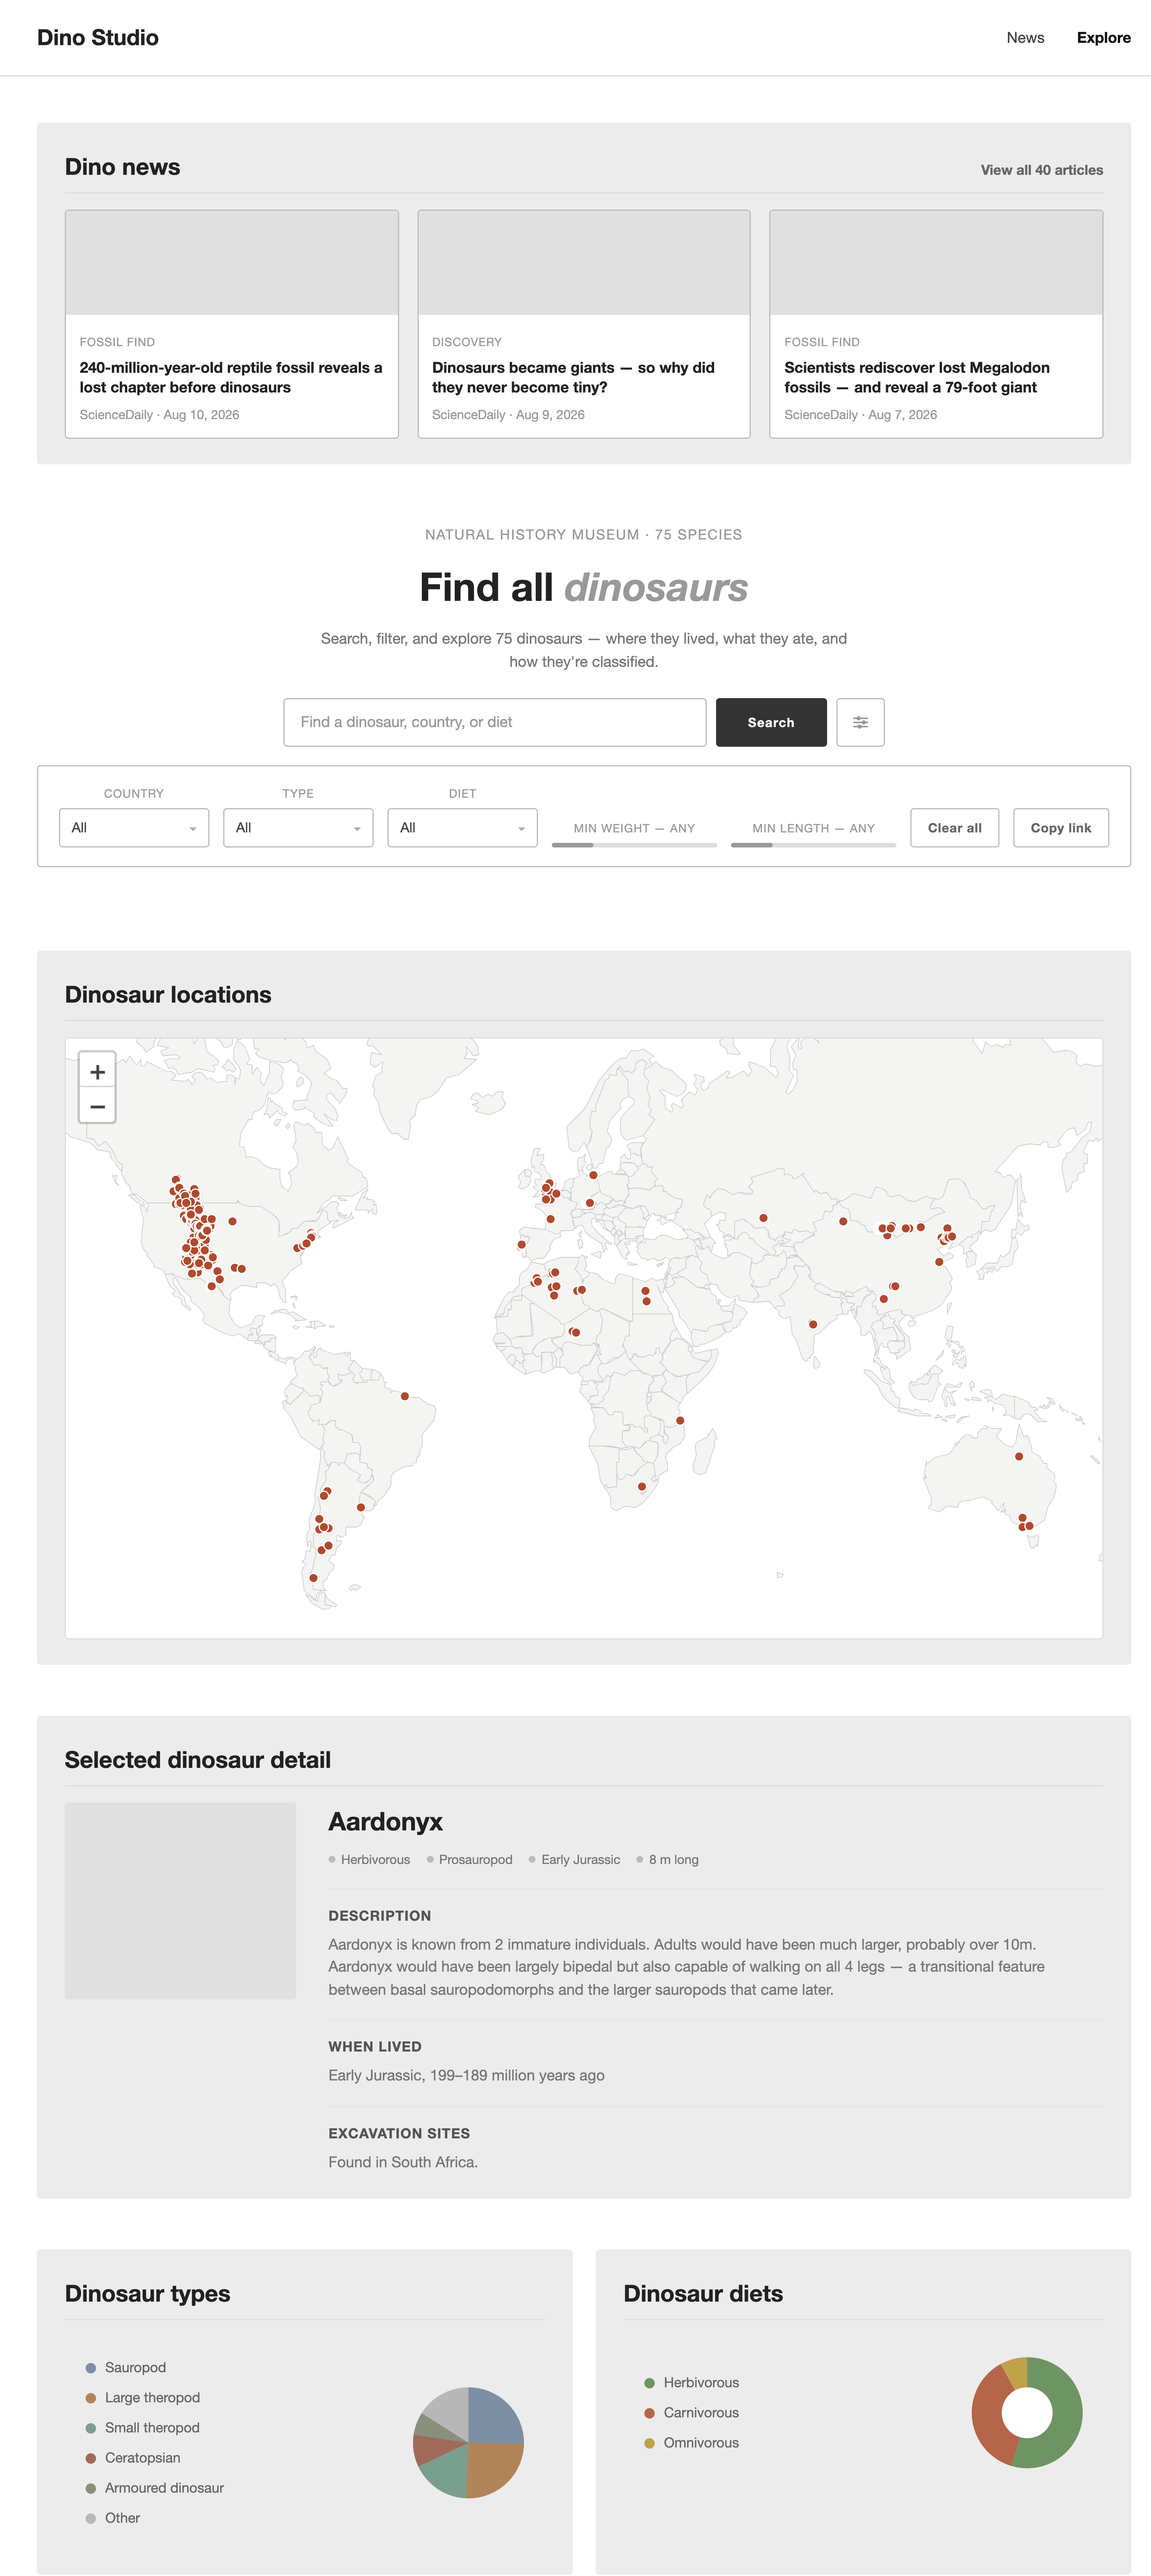
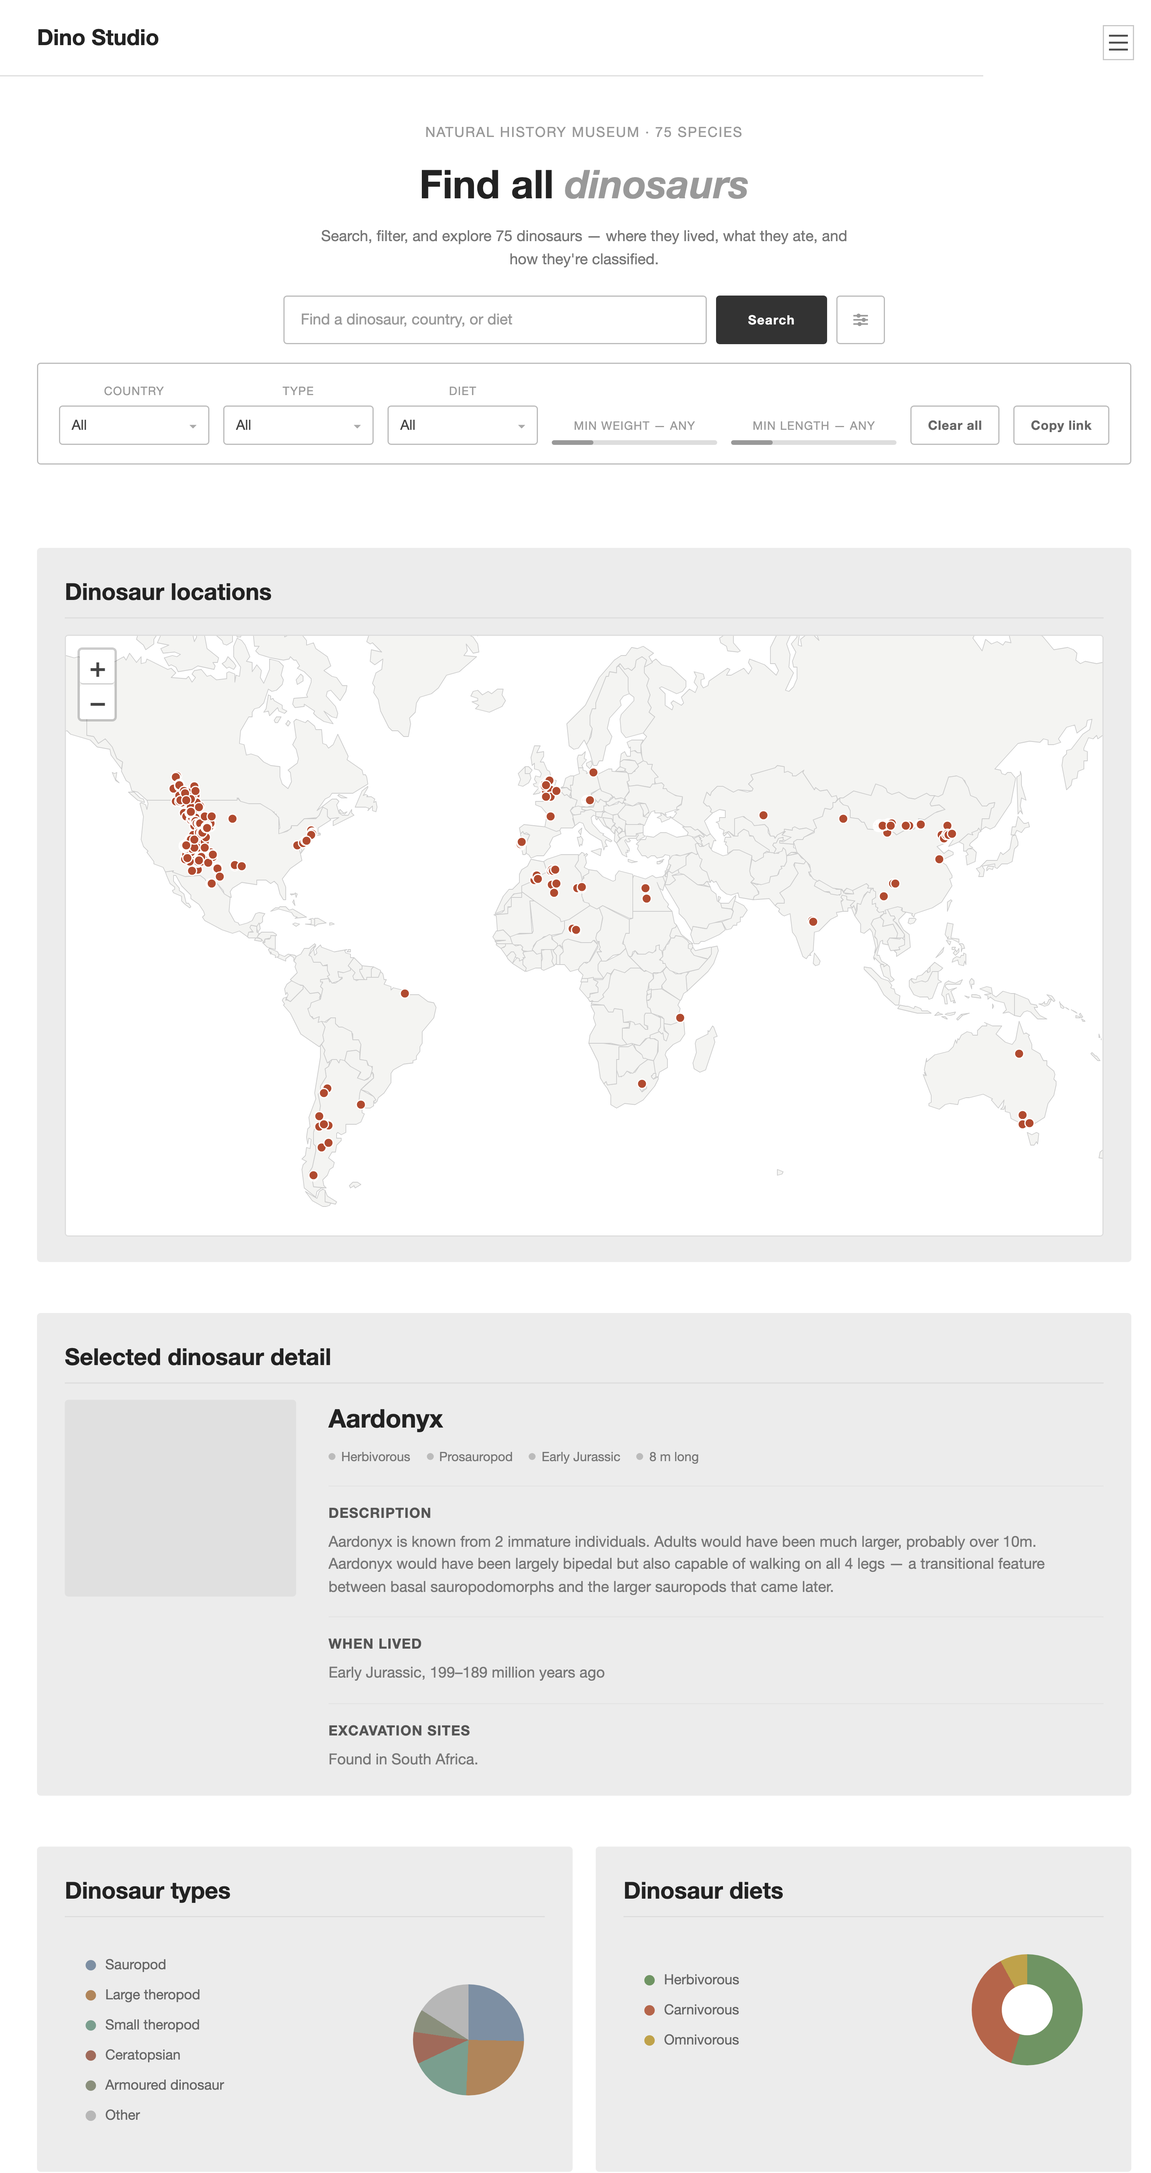
Simplify Dino Studio midfidelity header and sync round-1 usability screenshot
Removes the News/Explore nav and Dino news section from the midfidelity
wireframe, turns the header hamburger placeholder into a real three-line
icon, and updates dino-usability-01.png plus its pin positions to match.

diff --git a/dino_studio_case_study/midfidelity/index.html b/dino_studio_case_study/midfidelity/index.html
@@ -11,50 +11,10 @@
 
   <header class="wf-header">
     <div class="wf-logo">Dino Studio</div>
-    <nav class="wf-nav">
-      <span>News</span>
-      <span class="active">Explore</span>
-    </nav>
-    <div class="wf-hamburger wf-outline"></div>
+    <div class="wf-hamburger wf-outline"><span></span><span></span><span></span></div>
   </header>
 
   <main>
-
-    <!-- News -->
-    <section class="wf-section">
-      <div class="wf-box wf-fill">
-        <div class="wf-h2-row">
-          <h2 class="wf-h2">Dino news</h2>
-          <span class="wf-link-btn">View all 40 articles</span>
-        </div>
-        <div class="wf-news-list">
-          <div class="wf-news-card wf-outline">
-            <div class="wf-news-thumb" style="background:#e0e0e0;"></div>
-            <div class="wf-news-body">
-              <span class="wf-news-tag">Fossil find</span>
-              <p class="wf-news-headline">240-million-year-old reptile fossil reveals a lost chapter before dinosaurs</p>
-              <div class="wf-news-meta">ScienceDaily · Aug 10, 2026</div>
-            </div>
-          </div>
-          <div class="wf-news-card wf-outline">
-            <div class="wf-news-thumb" style="background:#e0e0e0;"></div>
-            <div class="wf-news-body">
-              <span class="wf-news-tag">Discovery</span>
-              <p class="wf-news-headline">Dinosaurs became giants — so why did they never become tiny?</p>
-              <div class="wf-news-meta">ScienceDaily · Aug 9, 2026</div>
-            </div>
-          </div>
-          <div class="wf-news-card wf-outline">
-            <div class="wf-news-thumb" style="background:#e0e0e0;"></div>
-            <div class="wf-news-body">
-              <span class="wf-news-tag">Fossil find</span>
-              <p class="wf-news-headline">Scientists rediscover lost Megalodon fossils — and reveal a 79-foot giant</p>
-              <div class="wf-news-meta">ScienceDaily · Aug 7, 2026</div>
-            </div>
-          </div>
-        </div>
-      </div>
-    </section>
 
     <!-- Hero + search -->
     <section class="wf-hero wf-section">

diff --git a/dino_studio_case_study/index.html b/dino_studio_case_study/index.html
@@ -516,9 +516,9 @@
           <div class="b-figure-frame">
             <div class="b-figure-chrome"><span></span><span></span><span></span></div>
             <img src="visuals/dino-usability-01.png" alt="First-round usability testing wireframe of the search and dinosaur detail flows">
-            <button type="button" class="b-pin" aria-expanded="false" style="top: calc(41px + (100% - 53px) * 0.4)" data-note="Overlapping pins in high-density regions make individual selection difficult.">1</button>
-            <button type="button" class="b-pin" aria-expanded="false" style="top: calc(41px + (100% - 53px) * 0.69)" data-note="The detail section is missing key information like species, diet, and weight.">2</button>
-            <button type="button" class="b-pin" aria-expanded="false" style="top: calc(41px + (100% - 53px) * 0.92)" data-note="The charts rely purely on visual slices and lack exact numbers or percentages.">3</button>
+            <button type="button" class="b-pin" aria-expanded="false" style="top: calc(41px + (100% - 53px) * 0.375)" data-note="Overlapping pins in high-density regions make individual selection difficult.">1</button>
+            <button type="button" class="b-pin" aria-expanded="false" style="top: calc(41px + (100% - 53px) * 0.675)" data-note="The detail section is missing key information like species, diet, and weight.">2</button>
+            <button type="button" class="b-pin" aria-expanded="false" style="top: calc(41px + (100% - 53px) * 0.91)" data-note="The charts rely purely on visual slices and lack exact numbers or percentages.">3</button>
             <div class="b-popover" role="tooltip"></div>
           </div>
           <figcaption>Wireframe with first-round usability findings — tap a pin for detail.</figcaption>

diff --git a/dino_studio_case_study/midfidelity/style.css b/dino_studio_case_study/midfidelity/style.css
@@ -74,16 +74,21 @@ main {
   font-weight: 700;
 }
 .wf-hamburger {
-  display: none;
+  display: flex;
   width: 34px;
   height: 34px;
   border-radius: 4px;
   align-items: center;
   justify-content: center;
+  flex-direction: column;
+  gap: 4px;
 }
-.wf-hamburger span,
-.wf-hamburger::before,
-.wf-hamburger::after { display: none; }
+.wf-hamburger span {
+  display: block;
+  width: 16px;
+  height: 2px;
+  background: #444;
+}
 
 /* ---- section scaffolding ---- */
 .wf-section {
